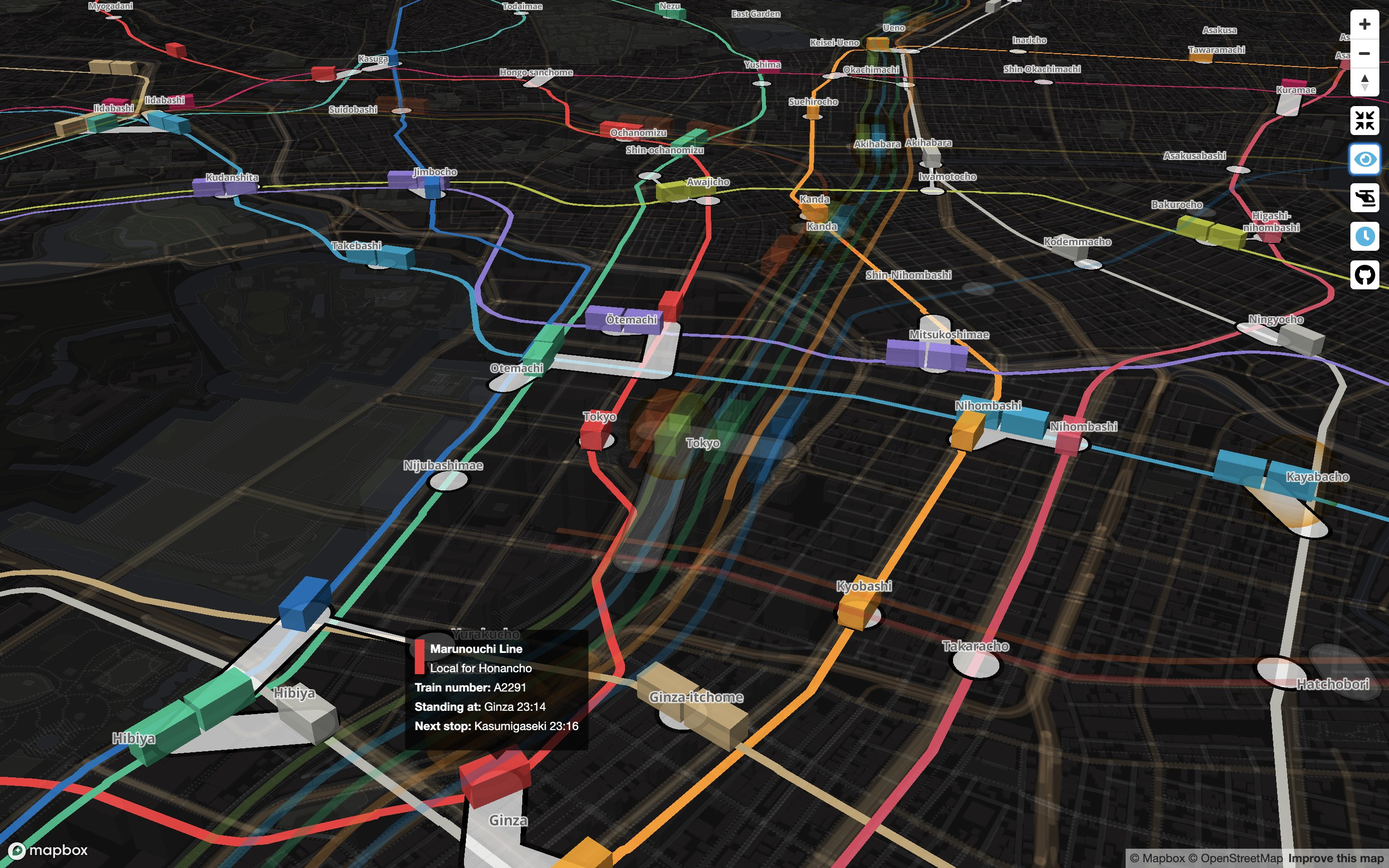
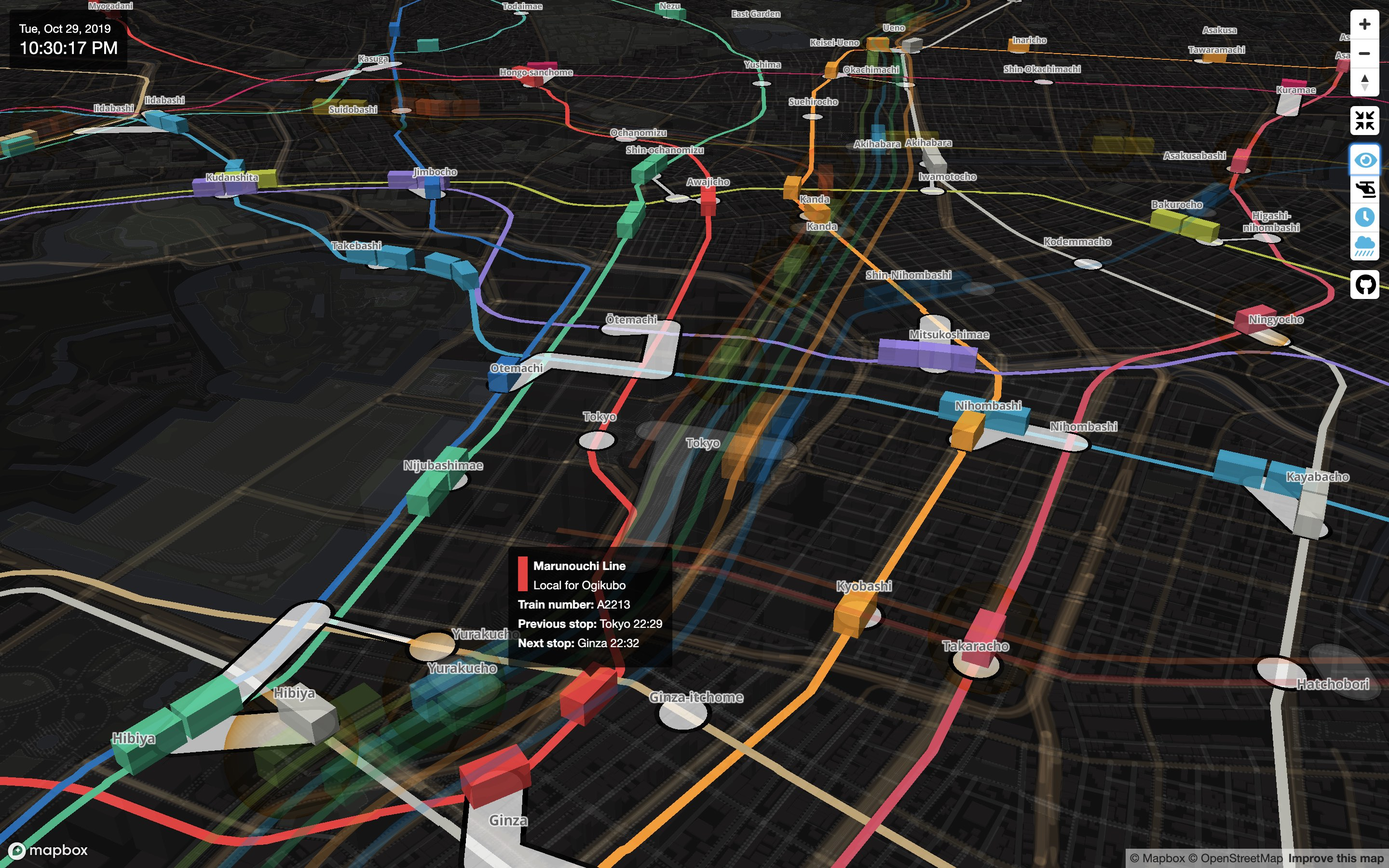
Add clock

diff --git a/js/main.js b/js/main.js
@@ -628,12 +628,15 @@ map.once('styledata', function () {
 			this.title = dict[(isRealtime ? 'exit' : 'enter') + '-realtime'];
 			stopAllTrains();
 			trackedObject = undefined;
+			popup.remove();
 			stopViewAnimation();
 			document.getElementsByClassName('mapbox-ctrl-track')[0].classList.remove('mapbox-ctrl-track-active');
 			if (isRealtime) {
 				this.classList.add('mapbox-ctrl-realtime-active');
+				document.getElementById('clock').style.display = 'block';
 			} else {
 				this.classList.remove('mapbox-ctrl-realtime-active');
+				document.getElementById('clock').style.display = 'none';
 				initModelTrains();
 			}
 		}
@@ -664,6 +667,8 @@ map.once('styledata', function () {
 			window.open('https://github.com/nagix/mini-tokyo-3d');
 		}
 	}]), 'top-right');
+
+	document.getElementById('clock').style.display = 'block';
 
 	var popup = new mapboxgl.Popup({
 		closeButton: false,
@@ -771,6 +776,21 @@ map.once('styledata', function () {
 			var userData, altitude, bearing;
 
 			if (isRealtime) {
+				if (Math.floor(now / 1000) !== Math.floor(lastFrameRefresh / 1000)) {
+					var date = getJSTDate();
+					var dateString = date.toLocaleDateString(lang, {
+						year: 'numeric',
+						month: 'short',
+						day: 'numeric',
+						weekday: 'short'
+					});
+					if (lang === 'ja' && JapaneseHolidays.isHoliday(date)) {
+						dateString = dateString.replace(/\(.+\)/, '(祝)');
+					}
+					document.getElementById('date').innerHTML = dateString;
+					document.getElementById('time').innerHTML = date.toLocaleTimeString(lang);
+				}
+
 				// Remove all trains if the page has been invisible for more than ten seconds
 				if (now - lastFrameRefresh >= 10000) {
 					stopAllTrains();
@@ -1850,28 +1870,33 @@ function buildLookup(array, key) {
 	return lookup;
 }
 
-function getTime(timeString) {
-	var date = new Date();
-	var timeStrings = (timeString || '').split(':');
-	var hours = +timeStrings[0];
-	var tzDiff = date.getTimezoneOffset() + 540; // Difference between local time to JST
+function getJSTDate(time) {
+	var date = time ? new Date(time) : new Date();
 
 	// Adjust local time to JST (UTC+9)
-	date.setMinutes(date.getMinutes() + tzDiff);
+	date.setMinutes(date.getMinutes() + date.getTimezoneOffset() + 540);
+
+	return date;
+}
+
+function getTime(timeString) {
+	var date = getJSTDate();
+	var timeStrings = (timeString || '').split(':');
+	var hours = +timeStrings[0];
 
 	// Special handling of time between midnight and 3am
 	hours += (date.getHours() < 3 ? -24 : 0) + (hours < 3 ? 24 : 0);
 
 	// Adjust JST back to local time
-	return date.setHours(hours, +timeStrings[1] - tzDiff, Math.floor(MIN_DELAY / 1000), MIN_DELAY % 1000);
+	return date.setHours(
+		hours,
+		+timeStrings[1] - (date.getTimezoneOffset() + 540),
+		Math.floor(MIN_DELAY / 1000), MIN_DELAY % 1000
+	);
 }
 
 function getTimeString(time) {
-	var date = new Date(time);
-	var tzDiff = date.getTimezoneOffset() + 540; // Difference between local time to JST
-
-	// Adjust local time to JST (UTC+9)
-	date.setMinutes(date.getMinutes() + tzDiff);
+	var date = getJSTDate(time);
 
 	return ('0' + date.getHours()).slice(-2) + ':' + ('0' + date.getMinutes()).slice(-2);
 }

diff --git a/style.css b/style.css
@@ -1,6 +1,7 @@
 body {
 	margin: 0;
 	padding: 0;
+	font: 12px/20px 'Helvetica Neue', Arial, Helvetica, sans-serif;
 }
 .loader-inner {
 	position: absolute;
@@ -34,6 +35,24 @@ body {
 	top: 0;
 	bottom: 0;
 	width: 100%;
+}
+#clock {
+	position: absolute;
+	z-index: 1;
+	top: 10px;
+	left: 10px;
+	padding: 10px;
+	border-radius: 3px;
+	background-color: rgba(0, 0, 0, 0.7);
+	box-shadow: 0 1px 2px rgba(0, 0, 0, 0.1);
+	display: none;
+}
+#date {
+	color: #fff;
+}
+#time {
+	font-size: 150%;
+	color: #fff;
 }
 .mapbox-ctrl-underground::before {
 	content: '\f06e';
@@ -122,24 +141,24 @@ body {
 	font-size: 21px;
 }
 .mapboxgl-popup-content {
-    color: #fff;
-    background-color: rgba(0, 0, 0, 0.7);
+	color: #fff;
+	background-color: rgba(0, 0, 0, 0.7);
 }
 .mapboxgl-popup-anchor-top .mapboxgl-popup-tip,
 .mapboxgl-popup-anchor-top-left .mapboxgl-popup-tip,
 .mapboxgl-popup-anchor-top-right .mapboxgl-popup-tip {
-	border-bottom-color: rgba(0, 0, 0, 0.7)
+	border-bottom-color: rgba(0, 0, 0, 0.7);
 }
 .mapboxgl-popup-anchor-bottom .mapboxgl-popup-tip,
 .mapboxgl-popup-anchor-bottom-left .mapboxgl-popup-tip,
 .mapboxgl-popup-anchor-bottom-right .mapboxgl-popup-tip {
-	border-top-color: rgba(0, 0, 0, 0.7)
+	border-top-color: rgba(0, 0, 0, 0.7);
 }
 .mapboxgl-popup-anchor-left .mapboxgl-popup-tip {
-	border-right-color: rgba(0, 0, 0, 0.7)
+	border-right-color: rgba(0, 0, 0, 0.7);
 }
 .mapboxgl-popup-anchor-right .mapboxgl-popup-tip {
-	border-left-color: rgba(0, 0, 0, 0.7)
+	border-left-color: rgba(0, 0, 0, 0.7);
 }
 .desc-box {
 	display: inline-block;

diff --git a/index.html b/index.html
@@ -26,7 +26,12 @@
 	<script type="text/javascript" src="https://cdn.jsdelivr.net/npm/shader-particle-engine@1.0.6/build/SPE.min.js"></script>
 </head>
 <body>
-	<div id="map"></div>
+	<div id="map">
+		<div id="clock">
+			<span id="date"></span><br>
+			<span id="time"></span>
+		</div>
+	</div>
 	<div id="loader" class="loader-inner ball-pulse">
 		<div></div><div></div><div></div>
 	</div>
